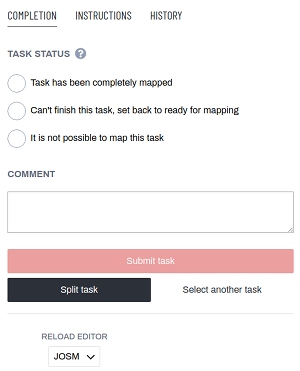
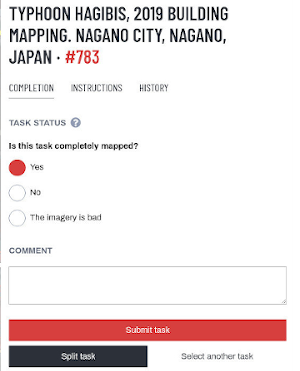
update tm4 user guide

diff --git a/_posts/en/0500-10-25-tm-user_en.md b/_posts/en/0500-10-25-tm-user_en.md
@@ -14,50 +14,47 @@ category: coordination
 - TOC
 {:toc}
 
-The [HOT Tasking Manager](http://tasks.hotosm.org) is a tool that coordinates many people mapping a specific geographic area in OpenStreetMap.
+The Tasking Manager is the most popular tool to team up and coordinate mapping on OpenStreetMap.
 
-OpenStreetMap is a collabarative, crowd sourced, free map of the world. Anyone can contribute to OpenStreetMap to map any part of the world that interests them. The Tasking Manager is just a way to coordinate large groups of people contributing to OpenStreetMap but most contributions to OpenStreetMap are done by people not using the Tasking Manager.
+> OpenStreetMap.org is a collabarative, crowd sourced, free map of the world. Anyone can contribute to OpenStreetMap to map any part of the world that interests them.
 
-The Tasking Manager is a totally separate tool from the main OpenStreetMap project. When you are contributing to OpenStreetMap using the Tasking Manager, you are actually using multiple software tools:
+You can use the widely used [HOT Tasking Manager](http://tasks.hotosm.org) to get started mapping immediately for humanitarian organizations and their work in the field.
 
-* OpenStreetMap - A database of geographic information
-* The Tasking Manager - Helps coordinate large numbers of people editing OpenStreetMap data in the same area
+The Tasking Manager is one software in the whole OpenStreetMap ecosystem. When you are contributing to OpenStreetMap using the Tasking Manager, you are actually using multiple software tools:
+
+* OpenStreetMap.org - A database of geographic information
+* The Tasking Manager - The tool to coordinate collaborative mapping on OpenStreetMap data in the same area
 * An OpenStreetMap Editor - A software program that can read and write data into the OpenStreetMap database
 
 ![TM overview][]
 
-The role of the Tasking Manager is to present a specific geographic region divided up into small, quick to map areas called "Tasks" and provide a way to "checkout" or "lock" one of those small areas while you map that area using one of the standard OpenStreetMap editors. By "checking out" or "locking" one of those small areas, you help ensure that no one else will be mapping in that same area while you are. This helps prevent "double mapping" or other errors when two people are working on exactly the same area in OpenStreetMap.
+The role of the Tasking Manager is to present a specific geographic region and devide it up into small mapping areas called "tasks". These can be locked by a mapper to avoid other contributors mapping the same objects and introducing duplicated data or run into conflicts. Once mapping is complete in this small area, the mapper reports back to the Tasking Manager that it is finished. And the mappers can select a new task to continue their contribution to OpenStreetMap.
 
-Once you are done mapping that small area, you record in the Tasking Manager that you have finished mapping that small area and hopefully you select another "Task" to map.
+Experienced mappers are going to check each of the tasks and make sure the quality of the data being introduced in OpenStreetMap is well. Eventually they would mark the task as validated or give it back to the mappers with instructions on how to improve.
 
 
-## Quick Start Guide
+## Quickstart Guide
 
-1. If you already have an OpenStreetMap account then switch to item nr. 4. Otherwise click on 'Sign up' in the upper right corner of the [Tasking Manager](http://tasks.hotosm.org/).
-  ![TM Login 1][]
-1. You will be asked to provide a name and an email address
-  ![TM Quick Start 1a][]
-1. Next you can choose whether to sign up with OpenStreetMap or use an existing account
- ![TM Quick Start 1b][]
-1. Depending on your choice you are either redirected to the registration form or to a form where you agree to use your credentials
-  ![TM Quick Start 1][]
-1. Now you should be set up to work! Or you can return to setting up an account if something went wrong
- ![TM Quick Start 1c][]
-1. Visit the [Tasking Manager](http://tasks.hotosm.org/) and log in via the upper right corner  
-  ![TM Quick Start 2][]
-1. Click on 'Explore Projects' and find a mapping project to work on  
-  ![TM Quick Start 3][]
-1. Read the instructions for the project  
-  ![TM Quick Start 4][]
-1. Either click on 'Map a task' in the lower right corner. This will select an available task for you and open it in your favourite editor.  
-  ![TM Quick Start 5][]
-1. Or select one of the white task squares which are available for mapping. Click on 'Map selected task' and it opens in your favourite editor.  
-  ![TM Quick Start 6][]
-1. In both cases the editor will either open in the tab or as an external application. Map all the features asked for in the instructions.  
-  ![TM Quick Start 7][]
-1. When finished mapping, switch back to the Tasking Manager and   select one of the edit status buttons. Optionally leave a comment and click on 'Submit task' to finish the editing process.  
-  ![TM Quick Start 8][]
-
+1. Do you have an OpenStreetMap account already? You can skip ahead to step 4. Otherwise click on the `Sign up` button in the upper right corner of the [Tasking Manager](http://tasks.hotosm.org/) homepage.
+  ![TM4-user-guide-1][]
+1. You will be asked to provide a name and an email address.
+  ![TM4-user-guide-2][]
+1. A new tab will open allowing you to register on OpenStreetMap.org. Provide your account information and press the `Sign up` button at the bottom of the form.
+  ![TM4-user-guide-3][]
+1. Close the tab and go back to the [Tasking Manager](http://tasks.hotosm.org/). Click the button to `Log in`.
+  ![TM4-user-guide-4][]
+1. Select `Explore projects` in the main navigation to find a project to map on.
+  ![TM4-user-guide-5][]
+1. Read the introduction to the project and click on `Contribute` to begin with a mapping task.
+  ![TM4-user-guide-6][]
+1. Map a randomly selected task for mapping by clicking on the button `Map a task`.
+  ![TM4-user-guide-7][]
+  *Alternatively, you can also select one from the map or the task and choose `Map selected task`.*
+1. This opens the editor; map all the features asked for in the instructions.
+  ![TM4-user-guide-8][]
+1. When finished mapping, save your edits, optionally leave a comment and select the button `Submit task`.
+  ![TM4-user-guide-9][]
+  *After this, you can go back to step 7 and select a new task for mapping. Thank you for your contribution to OpenStreetMap!*
 
 ## Mapping Process 
 
@@ -70,26 +67,25 @@ Once you are done mapping that small area, you record in the Tasking Manager tha
 ### Tasking Manager Login
 {:.no_toc}
 
-The Tasking Manager is a separate tool that coordinates mapping in OpenStreetMap. However, it makes use of the OpenStreetMap login system. This means that you do not need to create a separate user account to use the Tasking Manager, but you do need to create an OpenStreetMap account and login to OpenStreetMap before you can use the Tasking Manager for mapping.
+The Tasking Manager is a special tool that coordinates mapping in OpenStreetMap. And it makes use of the OpenStreetMap login system. This means that you do not need to create a separate user account to use the Tasking Manager, but you do need to create an OpenStreetMap account and login to OpenStreetMap.org before you can use the Tasking Manager for mapping.
 
-When you first visit the Tasking Manager you will see a "Sign up" button in the upper right corner of the screen.
-![TM login 1][]
+When you visit the [Tasking Manager](https://tasks.hotosm.org) homepage you can choose between the `Login` and the `Sign up` button in the upper right corner of the screen.
 
-Click on that button and fill in your name and email address on the following screen.
+In case you already have an OpenStreetMap account. Just go to the [Tasking Manager](https://tasks.hotosm.org) and press `Log in`
+If you don't have an OpenStreetMap account, yet, choose `Sign up`. Provide your email address and name and confirm.
 
-![TM Quick Start 1a][]
+![TM4-user-guide-1][]
 
-Next you have the choice to either set up a new account with OpenStreetMap or use an existing one. 
 
-![TM Quick Start 1b][]
+![TM4-user-guide-2][]
 
-In the first case you will be taken to the OpenStreetMap website. Here you can register and grant the Tasking Manager access to your OpenStreetMap preferences. Create an account on the OpenStreetMap website if you do not already have one. If you choose to use an existing account you just have to grant access to your preferences.
+A new tab will open allowing you to register on OpenStreetMap.org. Provide your account information and press the `Sign up` button at the bottom of the form. Verify your email address.
 
-![TM login 2][]
+![TM4-user-guide-3][]
 
-![TM login 3][]
+Close the tab and go back to the [Tasking Manager](https://tasks.hotosm.org). Click the button to `Log in` and authorize the application.
 
-Once you are logged into OpenStreetMap you will be returned to the Tasking Manager where you should log in now. Clicking on your username in the upper right corner of the screen shows a context menu which allows you to access your personal settings. Here you can submit more information which will help you use the Tasking Manager.
+![TM4-user-guide-4][]
 
 ## Settings
 
@@ -110,11 +106,11 @@ The Task Manager initially displays in English - to change to another language c
 - choose which notifications are sent to you
 - Logout
 
-## Finding a Project
+## Find a Project
 
-   ![TM Start mapping][]{:style="float:left;height:50px"} on the home page will take you to the main list of projects in the Tasking Manager. This list can also be found from __EXPLORE PROJECTS__
+![TM Start mapping][]{:style="float:left;height:50px;padding-right:10px;"} The `Start mapping` button on the homepage will take you to the main list of projects in the Tasking Manager. Or simply select `Explore projects` in the main navigation.
 
-![TM Quick Start 3][]
+![TM4-user-guide-5][]
 
 The Tasking Manager Project list screen is divided into three main areas:
 
@@ -141,34 +137,40 @@ By default all the projects available for mapping are displayed. You can use the
 
 ![TM map][]
 
-### Mapping via the Tasking Manager
-{:.no_toc}
+## Project overview page
 
-![TM4 project graph]{:style="float:right;width:300px"}Once you have located a Project that interests you, clicking on the Project will take you to the more detailed entry for that Project. Scroll down for more information, such as the teams involved, any comments about the project, who has contributed and a graph of progress.  
+![TM4 project graph]{:style="float:right;width:300px"}Once you have located a project of your interest, clicking on it will take you to the overview page for that project. Read the description carefully and scroll down for more information, such as the organization who coordinates the mapping for this project, who can map or validate, any comments about the project, a progress graph and the list of contributors.
 
-Icons indicate the types of mapping, such as; 
-- Road networks: Used by people on the ground to load data into hand held navigation tools, and to work out how to access remote areas  
-- Mapping villages: Often used to identify places where people live and may be impacted  
-- Mapping buildings: Used for damage assessments or contact tracing with diseases. Also used for population estimates.  
-- Mapping rivers, walls and other features  
+![TM4-user-guide-6][]
 
+Icons indicate the types of mapping, such as:
 
-![TM4 contribute][]{:style="float:left;height:50px"} at the bottom right takes you to the screen where you can choose to start mapping, and where you will see even more detailed information.    
+- Roads: Often used for routing on navigation devices.
+- Buildings: Can be used to understand where people live and might be impacted.
+- Waterways: Useful for damage assessments or contract tracing with diseases.
+- Land use: Understand the purpose of land is part of a comprehensive map.
+- Other: Any other kind of mapping.
 
+![TM4 contribute][]{:style="float:left;height:50px;padding-right:10px;"} The `Contribute` button on the bottom right takes you to the screen where you can read the mapping instructions and select the tasks to work on.    
 
-![TM project description][]
+## Project tasks page
 
+This is your main screen for working on a project. The screen is devided into two parts.
 
+The left section is a tabbed panel with tabs for:  
 
-## Project Page
-
-Everything you need to know about the project is here, including a full description of the project. Below the description the screen is divided into a left and right section. The left section is a tabbed panel with tabs for ;  
+![TM4-user-guide-7][]
 
 - **Tasks** A list of tasks which can be filtered according to 'All', 'Available for mapping', or 'Ready for validation'.  
-- **Instructions** see **Task Instructions** below for more information, but make sure you read & understand all of the information here before you start mapping. 
-- **Contributions** with a dropdown selection to filter the list of contributions according to the mappers status.  
+- **Instructions** see **Task Instructions** below for more information. Make sure you read and understand all of the information before you start mapping. 
+- **Contributions** contains a record of the contributions done by fellow mappers on this project.
 
-The right side of the screen is a map with the squares (Tasks) coloured according to their status. Squares that are available to you can be selected by clicking on them.  
+> Not all areas of the world are similar to your own, so specific tagging advice may be provided. For example, Africa's road network is very different to typical American or European highway systems.
+> There will be a section indicating the **Changeset comment** you should make sure appears in your editing programme when uploading/saving your changes, together with the **source** information you may (depending on your editing software) need to copy & paste to the source field on making changes.
+> Sometimes, task **specific imagery** may be available - you may need to agree to a license in order to access it. Instructions usually will indicate the easiest way to load this into editors such as JOSM or iD.
+> When checking a task marked as complete, validators will expect that the requirements from the instructions tab have all been completed. You may find completing an entire task is quite difficult - guidance below is available around unlocking tasks; as well as providing useful feedback for the next mapper.
+
+The right side of the screen is a map showing the tasks (often times as squares) coloured according to their status. Tasks that are available to you can be selected by clicking on them.
 
 ![TM map key][]{:style="float:right;height:200px"}
 
@@ -180,14 +182,10 @@ The right side of the screen is a map with the squares (Tasks) coloured accordin
 - Pink squares represent priority areas, and  
 - ![TM padlock][]{:style="float:left;height:20px"} are locked by another mapper
 
-Not all areas of the world are similar to your own, so specific tagging advice may be provided. For example, Africa's road network is very different to typical American or European highway systems.  
-There will be a section indicating the **Changeset comment** you should make sure appears in your editing programme when uploading/saving your changes, together with the **source** information you may (depending on your editing software) need to copy & paste to the source field on making changes.  
-Sometimes, task **specific imagery** may be available - you may need to agree to a license in order to access it. Instructions usually will indicate the easiest way to load this into editors such as JOSM or iD.  
-When checking a task marked as complete, validators will expect that the requirements from the instructions tab have all been completed. You may find completing an entire task is quite difficult - guidance below is available around unlocking tasks; as well as providing useful feedback for the next mapper.  
-
 Although you may have set your preferred editor within your preferences page, you do have the option of changing editor just for the task you are about to select.  
 
 ### Choice of Editors
+{:.no_toc}
 
 Different options for editing are presented to you as soon as you lock a task.
 
@@ -227,10 +225,9 @@ The editor will load in a new window or tab. Potlatch will not automatically dis
 
 For use only when you are involved in a project where a local mapper has carried out a ground survey and marked a printed map with information such as road names. This map can be rescanned and used as a background image for a remote or local mapper to read the information and update the OpenStreeetMap data [Field papers section of LearnOSM](/en/mobile-mapping/field-papers/).  
 
-#### Selecting a task to map  
-{:.no_toc}
+#### Select a task to map  
 
-![TM Map a Task][]{:style="float:left;height:50px"} will lock a random task for you, and is the best option to choose when mapping at a Mapathon, or when a large number of people are working on a project at the same time. But there may also be situations where you prefer to make your final Task selection using the map, but in either case you will reach the stage where your Task is locked, and your 2 hour countdown timer has started.
+![TM Map a Task][]{:style="float:left;height:50px"} The button `Map a task` will lock a random task for you, and is the best option to choose when mapping at a Mapathon, or when a large number of people are working on a project at the same time. But there may also be situations where you prefer to make your personal task selection using the map, but in either case you will reach the stage where your task is locked, and your 2 hour countdown timer has started.
 > **Tip**  - Make a note of your start time, so that the square does not become unlocked accidentally while you are still working on it. If it does, and another mapper selects it and starts mapping you are very likely to have problems later with **conflicts** (Two mappers have edited the same object, and the OpenStreetMap database prevents you uploading your work until you indicate which persons work is correct). For more information on [conflicts](/en/beginner/id-editor/#saving-your-changes) or in our [HOT Tips Section](/en/hot-tips/saving/). If you are mapping using JOSM, see [JOSM conflict resolution](/en/josm/josm-conflict-resolution/).  
 
 ![TM history instructions][]{:style="float:right;"} Once you have locked your Task, and your square (Task) boundary shown. You can still click on the tabs for;  
@@ -248,46 +245,49 @@ For use only when you are involved in a project where a local mapper has carried
 ![ID full screen][]
 
 ### Splitting a task square
+{:.no_toc}
 
 Having selected your task and inspected it with the imagery in place, you may realise that there is far too much detail required for mapping. An example of this may be tracing buildings in dense urban areas, or locating small villages in large areas. As guidance, where it isn't possible for one person to complete within the 2 hour time limit you can often split the task into 4 smaller areas. *Use with caution* - if/when task squares are split too small it is difficult to judge what type of highway is involved, and to identify other features.  
 
 > Be aware that other useful comments about the work previously completed will no longer be available.
 
 
-### Ending your mapping of a Task or Square
+### Submit your mapping task
 
 ![TM end mapping][]{:style="float:right;width:300px"}
 
 ##### Unlocking a Task before it is complete
 {:.no_toc}
 
-If you start working on a task, but cannot complete it for some reason, it is best practice to leave a comment against the task. Simply detail what remains and choose **Select another task**. Make sure your comments are relevant and aimed to help out the next mapper.  
+If you start working on a task, but cannot complete it for some reason, it is best practice to leave a comment in it. Simply detail what remains and choose `No` to the question "Is this task completely mapped?" and press `Submit task`. Make sure your comments are relevant and aimed to help out the next mapper.  
 
 For example:  
 
     Almost complete, small village top left 
     in the task square to be traced though
   
+If you didn't map at all, you can just go back without leaving any comment by choosing `Select another task`.
 
-##### Submit Task or Unlocking a Task that is completely mapped 
+
+##### Submit a task that is completely mapped 
 {:.no_toc}
 
-It is very difficult to be completely certain that you have completed a task - however it is acceptable to mark the task as complete if you are fairly sure - the contents will be checked by another mapper when validating, and any small additions can be made then.  
+Once you are done you can save all changes to OpenStreetMap:
 
-For the process to work most effectively, mappers need to click on "Submit task" rather than leaving them for several other 'not sure' mappers to spend time also checking them.  
++ Answer the question "Is this task completely mapped?" with `Yes`
++ Add a comment to the text area detailing what you achieved and more importantly, what you are not certain of. For example; "Complete as far as I can see, but there is cloud covering the top right corner of the task & I cannot see to trace this area".  
++ Click on the `Submit task` button, and your work is ready for review.  
 
-When you have finished editing and think that the task is complete, save any remaining edits with your editing programme, then return to the Tasking Manager.  
+> It is very difficult to be completely certain that you have completed a task - however it is acceptable to mark the task as complete if you are fairly sure - the contents will be checked by another mapper when validating, and any small additions can be made then.  
 
-+ Add comments to the box detailing what you achieved and more importantly, what you are not certain of. For example; "Complete as far as I can see, but there is cloud covering the top right corner of the task & I cannot see to trace this area".  
-+ Click on the "Submit task" button, and your work is ready for review.  
 
 ##### Marking a Task as Bad Imagery
 {:.no_toc}
 
-You will sometimes select a task that can not be mapped because the imagery is low resolution or has cloud cover. Just close that task in your editor and use the "Mark as Bad Imagery" button to record that the task can not be mapped due to poor imagery.
-
+You will sometimes select a task that can not be mapped because the imagery is low resolution or has cloud cover. In this case please indicate `The imagery is bad` and confirm by clicking `Submit task`.
 
 #### Sending a message from the comment box
+{:.no_toc}
 
 When leaving a comment against a task, you can have the comment sent as a message to a named mapper. Much like Twitter, simply use an @ followed by the username. This will send a message to the user containing the comments from this box, plus a link to the task that the comments box relates to.  
 
@@ -425,21 +425,17 @@ For those two choices you can and should leave a friendly, encouraging comment a
 You can access a mapper’s statistics on their profile page at https://<i></i>tasks.hotosm.org/users/_username_. <!-- If the mapper has been making a consistent mistake you can find the projects that mapper worked on by going to their project page and selecting My Tasks below their name. If you want to see all the tasks mapped by that mapper in a specific project you can search their tasks by project id. -->
 
 
-[TM overview]: /images/coordination/tm4_overview.png
-[TM Quick Start 1]: /images/coordination/tasking_manager_qs1.png
-[TM Quick Start 1a]: /images/coordination/tm4_qs1a.png
-[TM Quick Start 1b]: /images/coordination/tm4_qs1b.png
-[TM Quick Start 1c]: /images/coordination/tm4_qs1c.png
-[TM Quick Start 2]: /images/coordination/tm4_qs2.png
-[TM Quick Start 3]: /images/coordination/tm4_qs3.png
-[TM Quick Start 4]: /images/coordination/tm4_qs4.png
-[TM Quick Start 5]: /images/coordination/tm4_qs5.png
-[TM Quick Start 6]: /images/coordination/tm4_qs6.png
-[TM Quick Start 7]: /images/coordination/tasking_manager_qs7.png
-[TM Quick Start 8]: /images/coordination/tm4_qs8.png
-[TM login 1]: /images/coordination/tm4_login1.png
-[TM login 2]: /images/coordination/tasking_manager_login2.png
-[TM login 3]: /images/coordination/tasking_manager_login3.png
+[TM overview]: /images/coordination/tm4_overview.gif
+[TM4-user-guide-1]: /images/coordination/tm4_quickstart_step_1.jpg
+[TM4-user-guide-2]: /images/coordination/tm4_quickstart_step_2.jpg
+[TM4-user-guide-3]: /images/coordination/tm4_quickstart_step_3.jpg
+[TM4-user-guide-4]: /images/coordination/tm4_quickstart_step_4.jpg
+[TM4-user-guide-5]: /images/coordination/tm4_quickstart_step_5.jpg
+[TM4-user-guide-6]: /images/coordination/tm4_quickstart_step_6.jpg
+[TM4-user-guide-7]: /images/coordination/tm4_quickstart_step_7.jpg
+[TM4-user-guide-8]: /images/coordination/tm4_quickstart_step_8.jpg
+[TM4-user-guide-9]: /images/coordination/tm4_quickstart_step_9.jpg
+[TM4-user-guide-10]: /images/coordination/tm4_quickstart_step_10.jpg
 [TM language editor]: /images/coordination/tm4_editor-language.png
 [TM personal]: /images/coordination/tm4_personal.png
 [TM notifications]: /images/coordination/tm4_notifications.png
